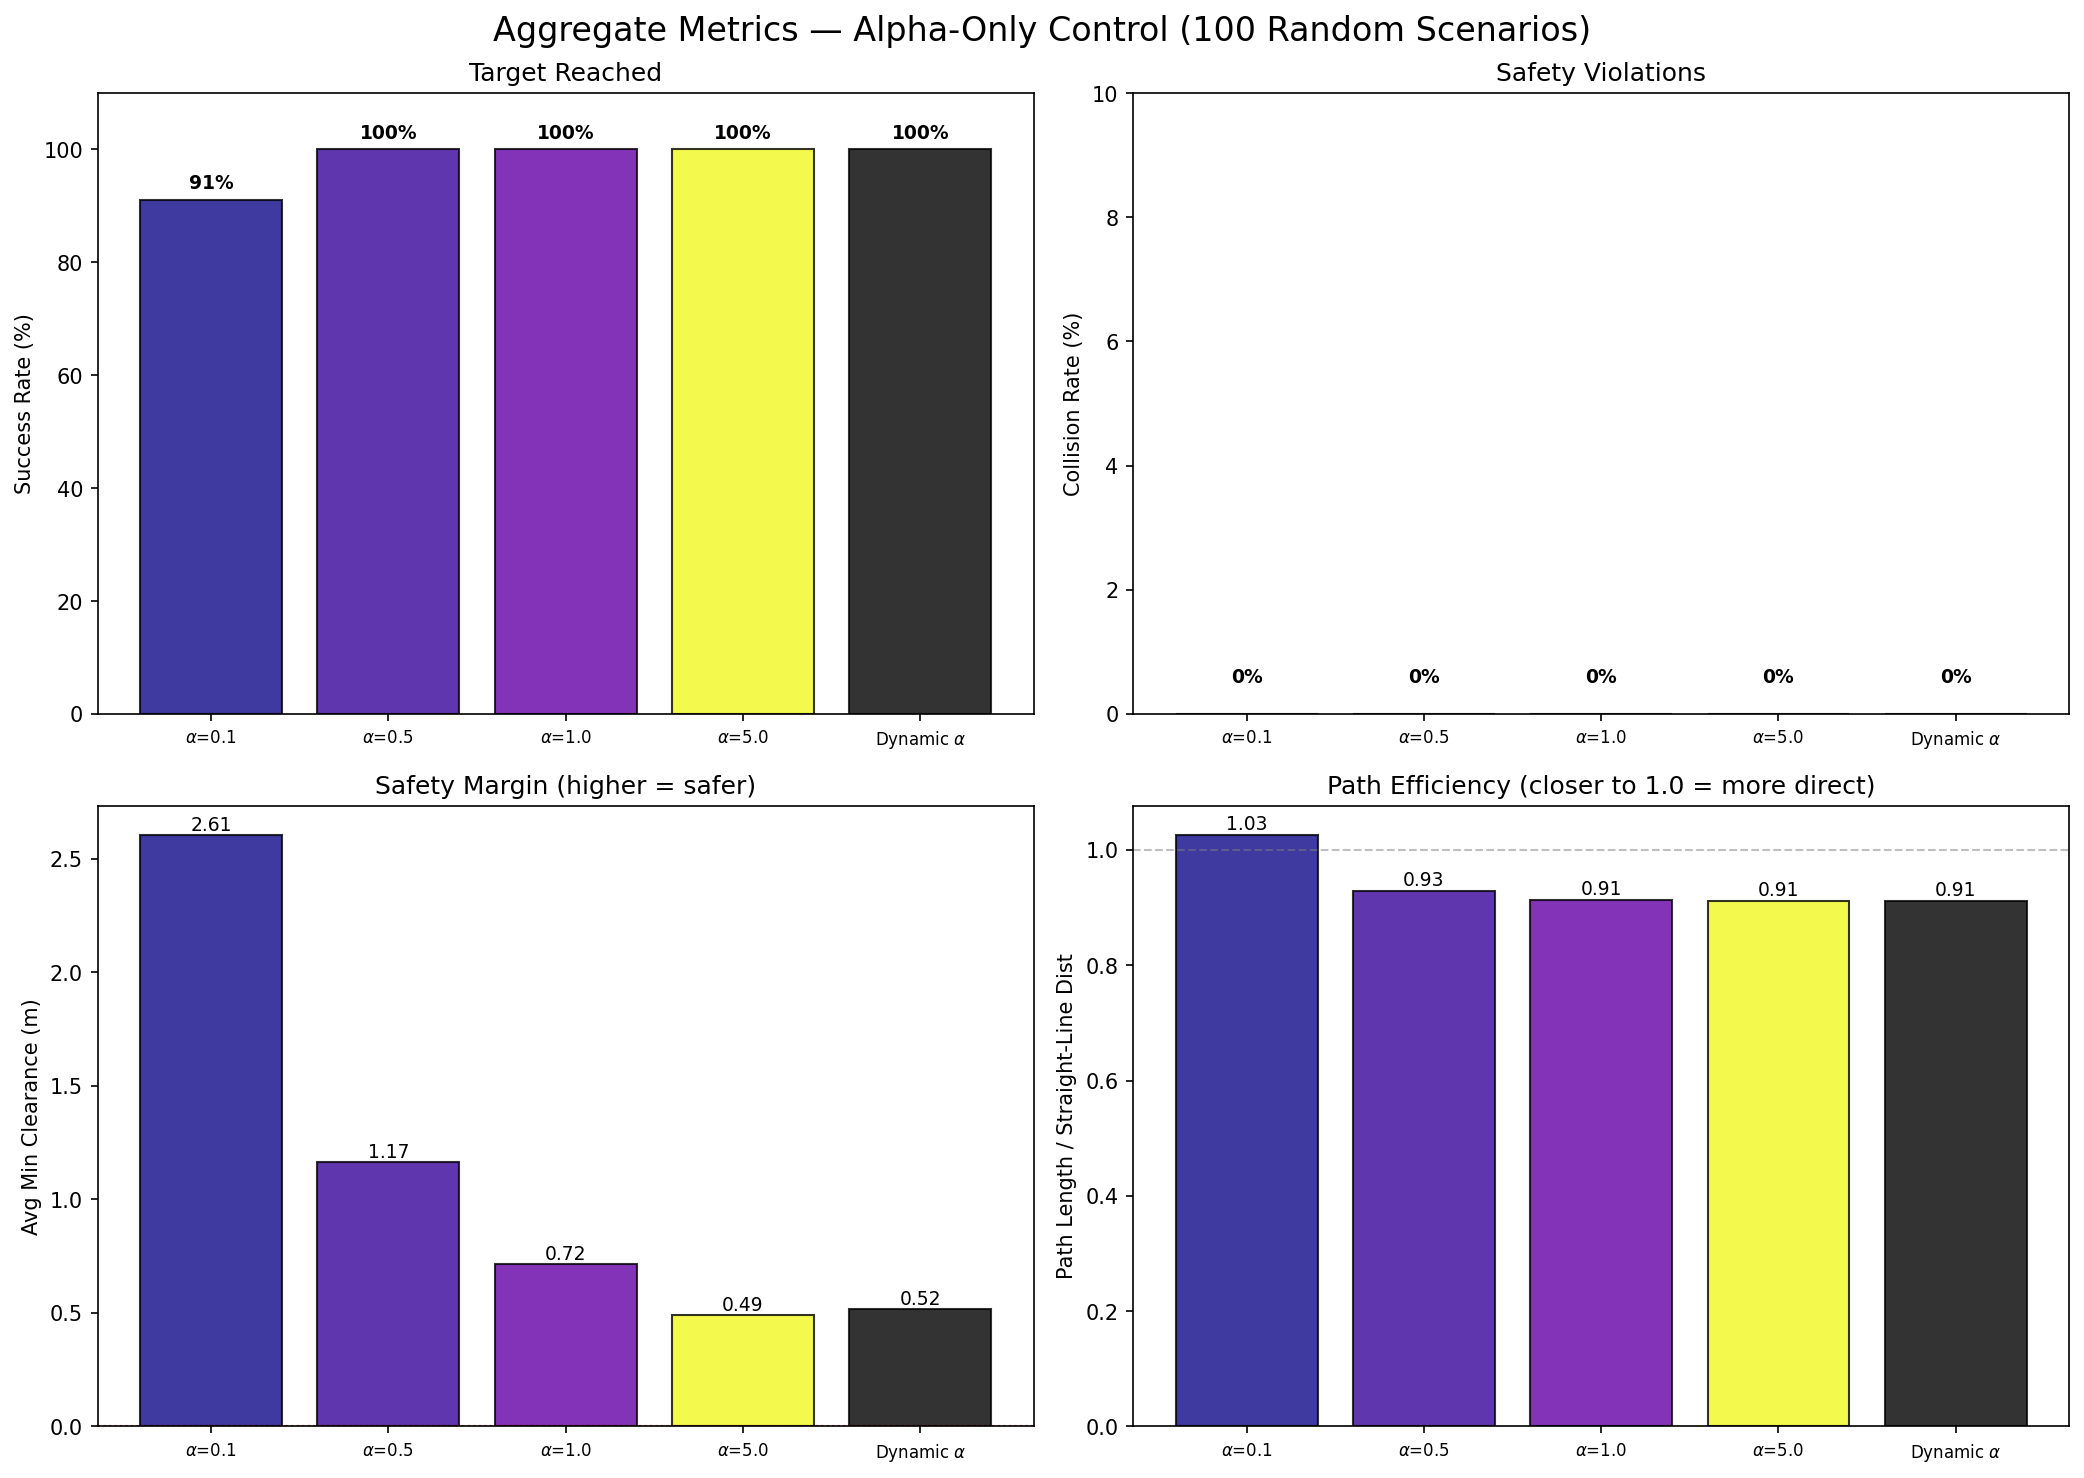
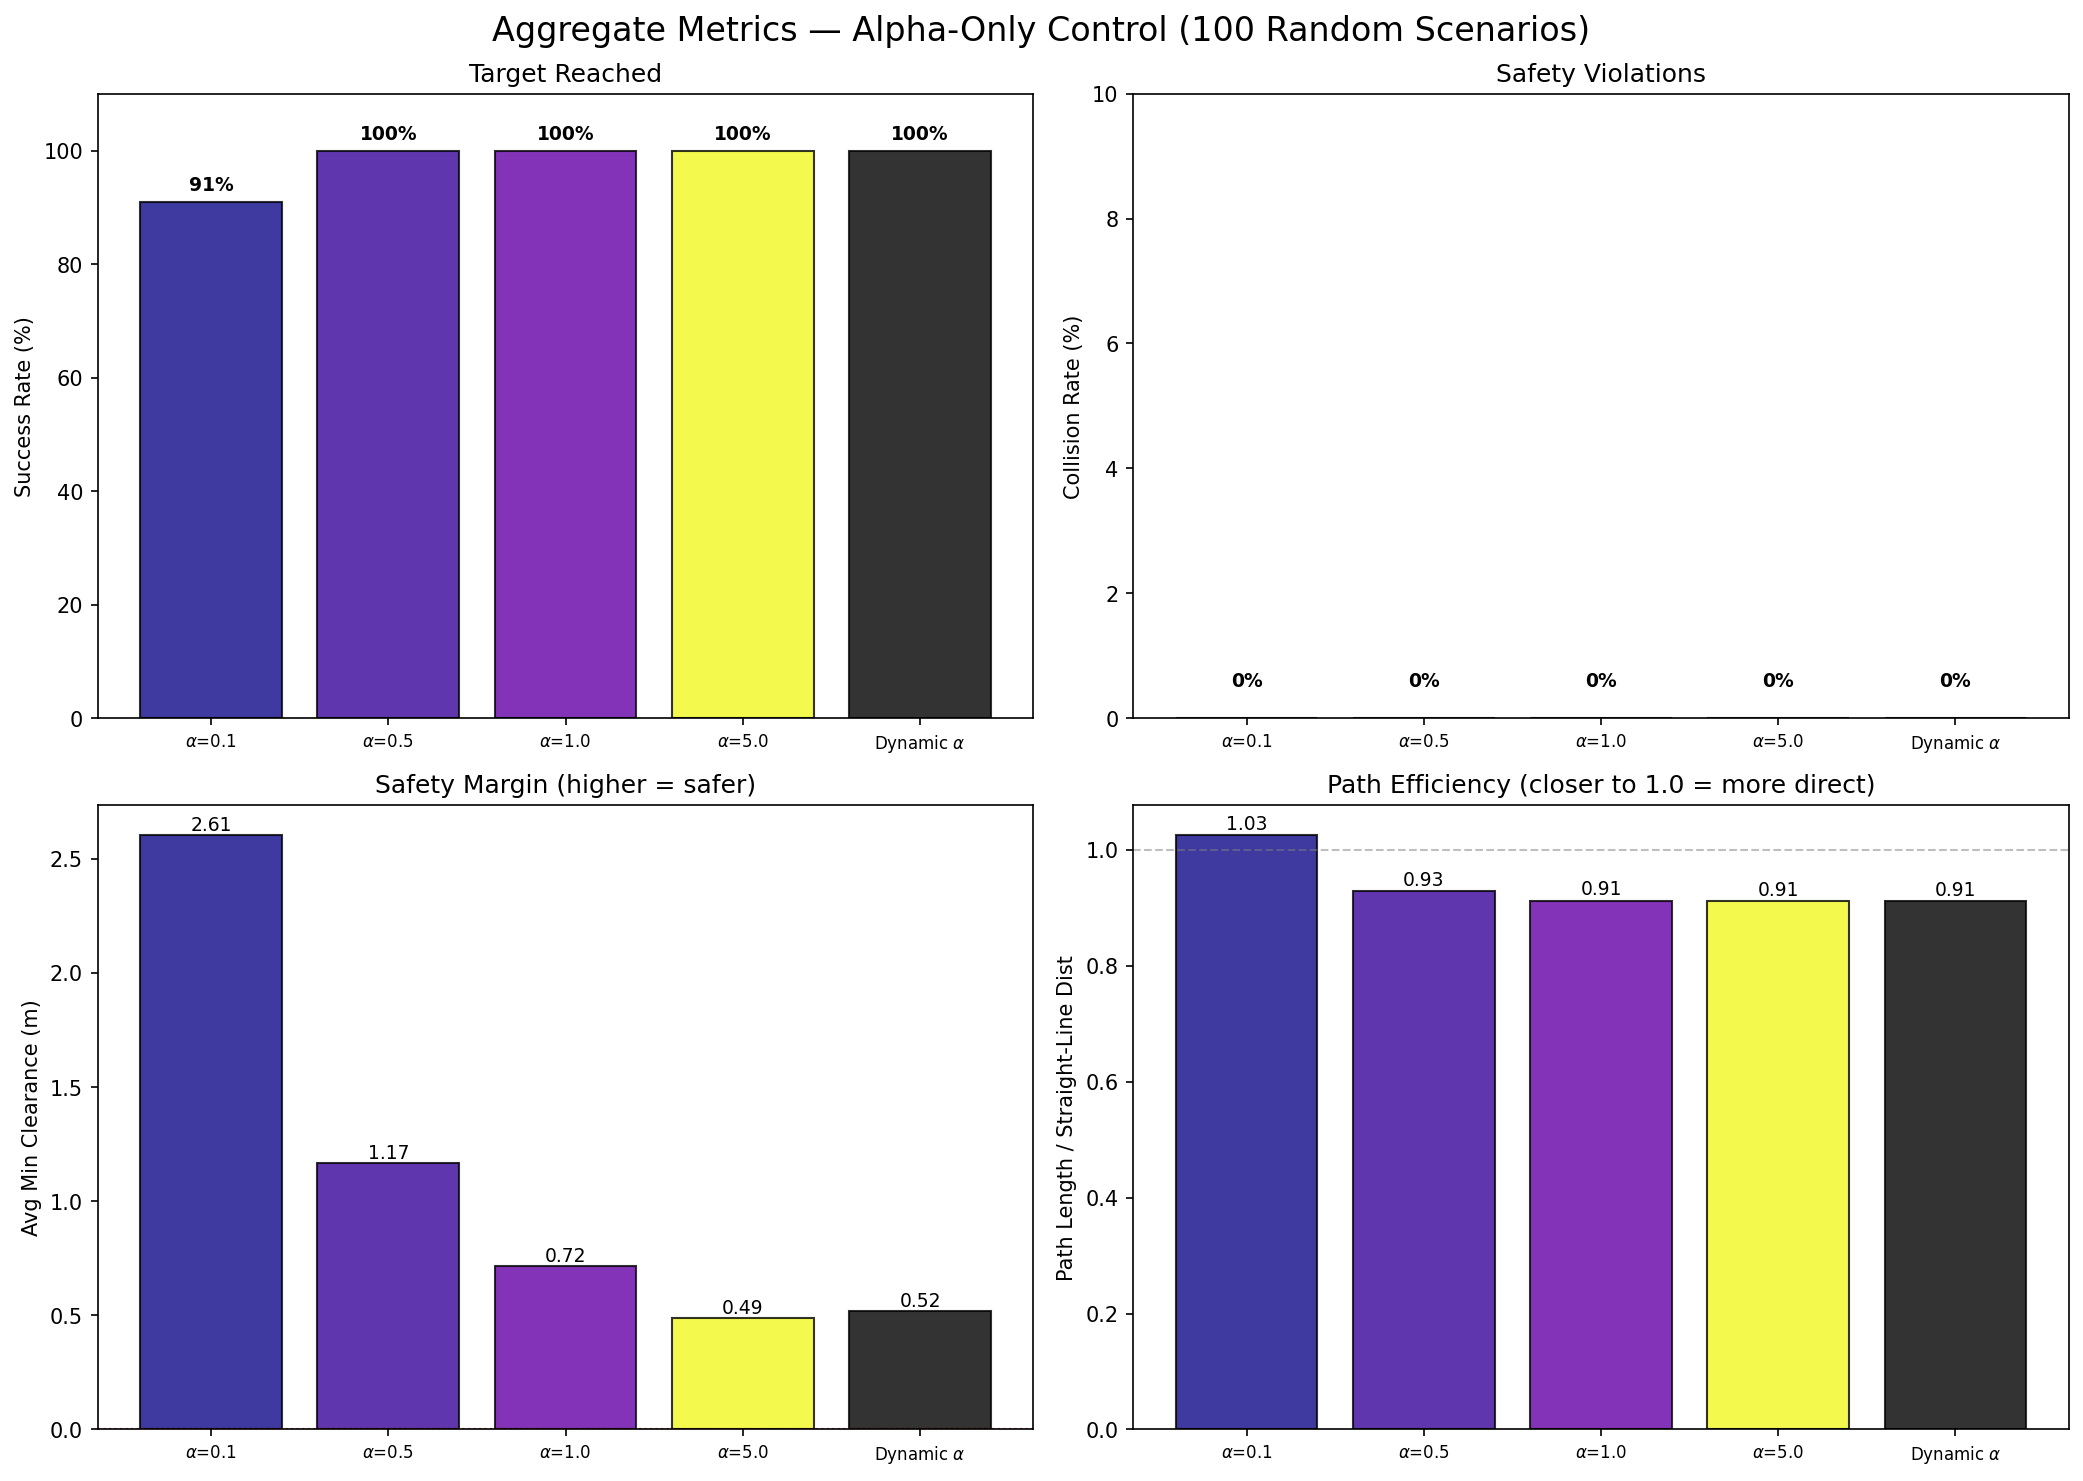
Update evaluation script and plots for alpha-only experiments; consolidate output into combined scenarios

diff --git a/experiments/6_alpha_only/evaluate_ablation.py b/experiments/6_alpha_only/evaluate_ablation.py
@@ -3,10 +3,8 @@ Alpha-only ablation: fixed alpha (deterministic) vs learned alpha.
 Fixed alpha baselines need NO training — k_nom and alpha are both fixed.
 
 Outputs:
-  plots/1_trajectories.png
-  plots/2_cbf_intervention.png
+  plots/combined_scenarios.png  (trajectory + CBF + alpha side by side)
   plots/3_aggregate_metrics.png
-  plots/4_alpha_adaptation.png
 """
 import numpy as np
 import matplotlib.pyplot as plt
@@ -195,15 +193,17 @@ if __name__ == "__main__":
         all_scenarios.append({"scen": scen, "dyn": dyn, "fixed": fixed_results})
 
     # =====================================================================
-    # PLOT 1: Trajectories
+    # COMBINED PLOT: Trajectory | CBF Intervention | Alpha — side by side
     # =====================================================================
-    fig, axs = plt.subplots(len(SCENARIOS), 1, figsize=(12, 5 * len(SCENARIOS)))
-    fig.suptitle(r"Alpha-Only Control: Fixed $\alpha$ vs Dynamic $\alpha$", fontsize=16, y=1.01)
+    n_scen = len(SCENARIOS)
+    fig, axs = plt.subplots(n_scen, 3, figsize=(24, 5 * n_scen))
+    fig.suptitle(r"Alpha-Only Control: Fixed $\alpha$ vs Dynamic $\alpha$", fontsize=18, y=1.005)
 
     for i, data in enumerate(all_scenarios):
         scen, dyn, fixed_results = data["scen"], data["dyn"], data["fixed"]
-        ax = axs[i]
 
+        # --- Column 1: Trajectory ---
+        ax = axs[i, 0]
         ax.add_patch(plt.Circle(scen["obs"], 1.0, color="red", alpha=0.3))
         ax.add_patch(plt.Circle(scen["target_pos"], scen["target_radius"], color="green", alpha=0.3))
 
@@ -228,54 +228,29 @@ if __name__ == "__main__":
         if i == 0:
             ax.legend(loc="upper left", fontsize=7)
 
-    fig.tight_layout()
-    fig.savefig(os.path.join(save_dir, "1_trajectories.png"), bbox_inches="tight", dpi=150)
-    plt.close(fig)
-    print("Saved: plots/1_trajectories.png")
-
-    # =====================================================================
-    # PLOT 2: CBF intervention
-    # =====================================================================
-    fig, axs = plt.subplots(len(SCENARIOS), 1, figsize=(10, 4 * len(SCENARIOS)))
-    fig.suptitle(r"CBF Intervention: $\|k_{nom} - u_{safe}\|$ Over Time", fontsize=16, y=1.01)
-
-    for i, data in enumerate(all_scenarios):
-        scen, dyn, fixed_results = data["scen"], data["dyn"], data["fixed"]
-        ax = axs[i]
+        # --- Column 2: CBF Intervention ---
+        ax = axs[i, 1]
         for fa in FIXED_ALPHAS:
             r = fixed_results[fa]
             ax.plot(r["cbf_interventions"], color=FIXED_ALPHA_COLORS[fa],
                     linewidth=1.2, linestyle="--", alpha=0.6, label=rf"Fixed $\alpha$={fa}")
         ax.plot(dyn["cbf_interventions"], color=DYNAMIC_COLOR, linewidth=2, label=r"Dynamic $\alpha$")
-        ax.set_title(scen["name"], fontsize=11)
+        ax.set_title(f"{scen['name']} — CBF Intervention", fontsize=11)
         ax.set_xlabel("Time Step")
         ax.set_ylabel(r"$\|k_{nom} - u_{safe}\|$")
         ax.grid(True, alpha=0.3)
         if i == 0:
             ax.legend(loc="upper right", fontsize=7)
 
-    fig.tight_layout()
-    fig.savefig(os.path.join(save_dir, "2_cbf_intervention.png"), bbox_inches="tight", dpi=150)
-    plt.close(fig)
-    print("Saved: plots/2_cbf_intervention.png")
-
-    # =====================================================================
-    # PLOT 4: Alpha adaptation
-    # =====================================================================
-    fig, axs = plt.subplots(len(SCENARIOS), 1, figsize=(10, 4 * len(SCENARIOS)))
-    fig.suptitle(r"Dynamic $\alpha$ Adaptation (Alpha-Only Control)", fontsize=16, y=1.01)
-
-    for i, data in enumerate(all_scenarios):
-        scen, dyn = data["scen"], data["dyn"]
-        ax = axs[i]
-
+        # --- Column 3: Alpha Adaptation ---
+        ax = axs[i, 2]
         ax.set_ylabel(r"$\alpha$ Value", color="purple")
         ax.plot(dyn["alphas"], color="purple", linewidth=2, label=r"$\alpha$")
         ax.tick_params(axis="y", labelcolor="purple")
         ax.set_ylim(0, 5.5)
 
         ax_dist = ax.twinx()
-        ax_dist.set_ylabel("Distance to Obstacle (m)", color="darkorange")
+        ax_dist.set_ylabel("Dist to Obstacle (m)", color="darkorange")
         ax_dist.plot(dyn["dist"], color="darkorange", linewidth=1.5, linestyle="-.", label="Dist Obs")
         ax_dist.tick_params(axis="y", labelcolor="darkorange")
         ax_dist.axhline(0, color="red", linewidth=1, linestyle=":", alpha=0.5)
@@ -283,7 +258,7 @@ if __name__ == "__main__":
         for fa in FIXED_ALPHAS:
             ax.axhline(fa, color=FIXED_ALPHA_COLORS[fa], linewidth=1, linestyle=":", alpha=0.4)
 
-        ax.set_title(scen["name"], fontsize=11)
+        ax.set_title(f"{scen['name']} — Alpha Adaptation", fontsize=11)
         ax.set_xlabel("Time Step")
         ax.grid(True, alpha=0.3)
 
@@ -293,9 +268,9 @@ if __name__ == "__main__":
             ax.legend(lines1 + lines2, labels1 + labels2, loc="upper right", fontsize=7)
 
     fig.tight_layout()
-    fig.savefig(os.path.join(save_dir, "4_alpha_adaptation.png"), bbox_inches="tight", dpi=150)
+    fig.savefig(os.path.join(save_dir, "combined_scenarios.png"), bbox_inches="tight", dpi=150)
     plt.close(fig)
-    print("Saved: plots/4_alpha_adaptation.png")
+    print("Saved: plots/combined_scenarios.png")
 
     # =====================================================================
     # BATCH: 100 random scenarios
